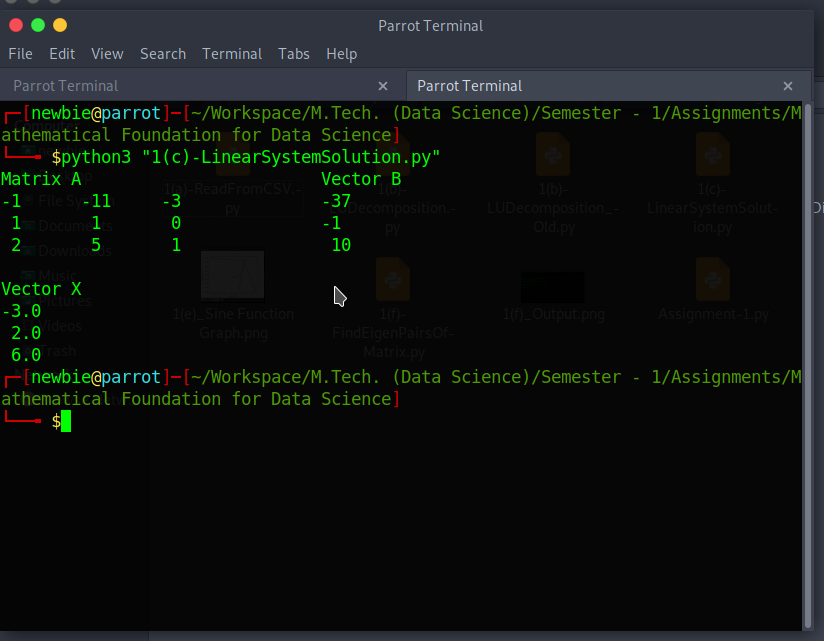
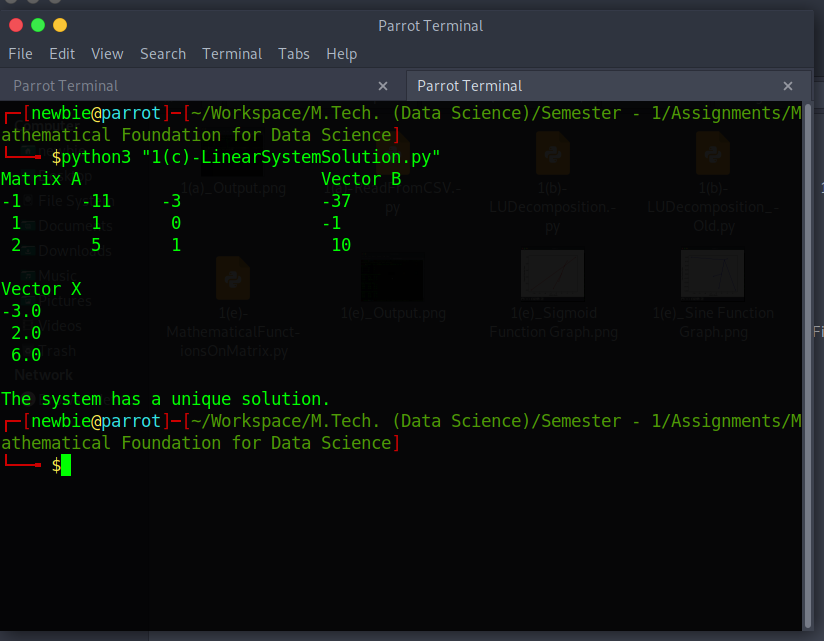
C part of assignment-1 of Mathematical Foundation for Data Science subject is completed. Mechanism for finding how many number of solutions are there is added finally.

diff --git a/Semester - 1/Assignments/Mathematical Foundation for Data Science/1(c)-LinearSystemSolution.py b/Semester - 1/Assignments/Mathematical Foundation for Data Science/1(c)-LinearSystemSolution.py
@@ -1,6 +1,7 @@
 import pandas as pandas
 import numpy as numpy
 from scipy.linalg import solve
+from numpy.linalg import matrix_rank
 
 matrixA = numpy.array(pandas.read_csv("MatrixA.csv", sep =',', header = None, index_col = False))#.astype("float")
 numberOfRows_MatrixA, numberOfColumns_MatrixA = matrixA.shape
@@ -29,3 +30,14 @@ for i in range(numberOfColumns_MatrixA):
         if(vectorX[i][j] < 0):
             space = ''
         print(space + format(numpy.round(vectorX[i][j], 2)))
+print(" ")
+rankOfMatrixA = matrix_rank(matrixA);
+augmentedMatrix = numpy.hstack((matrixA, vectorB))
+rankOfAugmentedMatrix = matrix_rank(augmentedMatrix)
+if(rankOfMatrixA == rankOfAugmentedMatrix):
+    if(rankOfMatrixA == numberOfColumns_MatrixA):
+        print("The system has a unique solution.")
+    else:
+        print("The system has infinite-many solutions.")
+else:
+    print("The system is inconsistent.")
